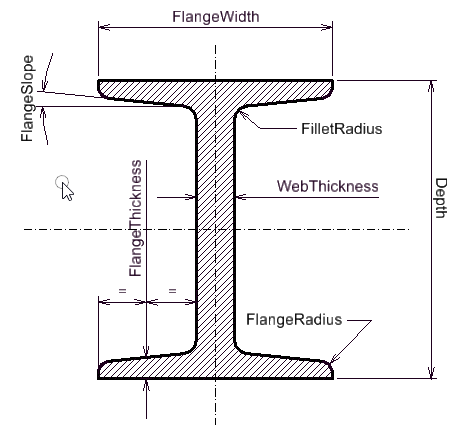
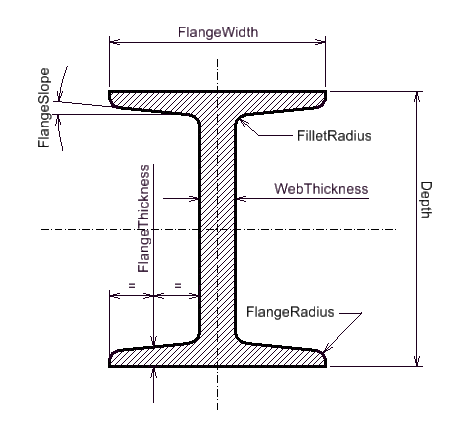
Relax EdgeRadius constraint for L and SchifflerizedL shapes (#642)
* Remove mouse cursor from IShape picture

* Relax EdgeRadius constraint for L and SchifflerizedL shapes

diff --git a/Domains/1-Common/Profiles/Profiles.remarks.md b/Domains/1-Common/Profiles/Profiles.remarks.md
@@ -262,6 +262,8 @@ In addition, such Profiles have a bounding box which is centered at the center o
 - `VerticalLegInnerEdgeLength` = `Depth` - `Thickness`
 - `VerticalLegSlopeHeight` = `VerticalLegInnerEdgeLength` * Tan(`LegSlope`)
 
+Note that `EdgeRadius` can be bigger than thickness.
+
 **Constraints:**
 - `Width` must be greater than zero
 - `Depth` must be greater than zero
@@ -275,7 +277,6 @@ In addition, such Profiles have a bounding box which is centered at the center o
   - must be less or equal to half `VerticalLegInnerEdgeLength` minus `HorizontalLegSlopeHeight`
 - `EdgeRadius` (if set):
   - must be greater or equal to zero
-  - must be less or equal to `Thickness`
   - must be less or equal to half `HorizontalLegInnerEdgeLength` minus `VerticalLegSlopeHeight`
   - must be less or equal to half `VerticalLegInnerEdgeLength` minus `HorizontalLegSlopeHeight`
 - `LegSlope` (if set):
@@ -338,6 +339,9 @@ In addition, such Profiles have a bounding box which is centered at the center o
 ![TTShape (all properties)](media/ProfilePictures/TTShape2.png)
 
 ### SchifflerizedLShapeProfile
+
+Note that `EdgeRadius` can be bigger than thickness.
+
 **Constraints:**
 - `LegLength` must be greater than zero
 - `Thickness`
@@ -351,7 +355,6 @@ In addition, such Profiles have a bounding box which is centered at the center o
   - must be less or equal to `LegBendOffset` minus `Thickness`
 - `EdgeRadius` (if set):
   - must be greater or equal to zero
-  - must be less or equal to `Thickness`
   - must be less or equal to `LegLength` minus `LegBendOffset` minus `Thickness` multiplied by the tangent of fifteen degrees
 
 ![Schifflerized (only mandatory properties)](media/ProfilePictures/Schifflerized1.png)
